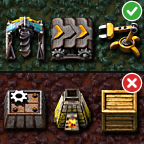
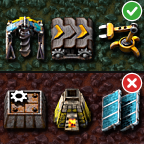
Allow chests on resource patches
Wooden, iron, steel and logistic chests (container and logistic-container
types) can now be built on ore. The thumbnail's blocked row shows a solar
panel instead of a chest.

Changed region(s): [[0.6944, 0.6111, 1.0, 0.9444]]

diff --git a/tools/make_thumbnail.py b/tools/make_thumbnail.py
@@ -539,7 +539,7 @@ def design_split():
     left = (SIZE - 3 * size - 2 * gap) // 2
     rows = [
         (["electric-mining-drill", "transport-belt", "inserter"], 16, (0.22, 0.66, 0.22), "check"),
-        (["assembling-machine-1", "stone-furnace", "wooden-chest"], half + 16, (0.84, 0.16, 0.16), "cross"),
+        (["assembling-machine-1", "stone-furnace", "solar-panel"], half + 16, (0.84, 0.16, 0.16), "cross"),
     ]
     for names, top, color, mark in rows:
         for i, name in enumerate(names):
